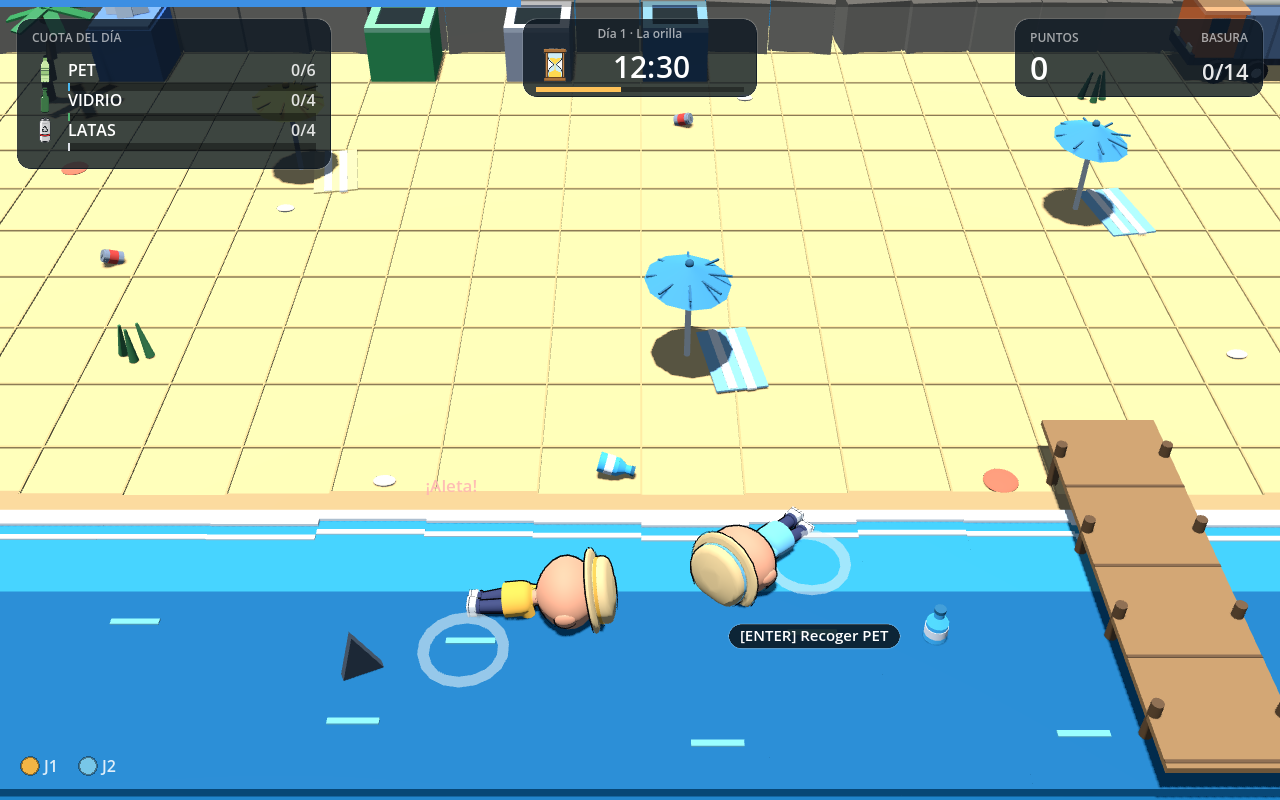
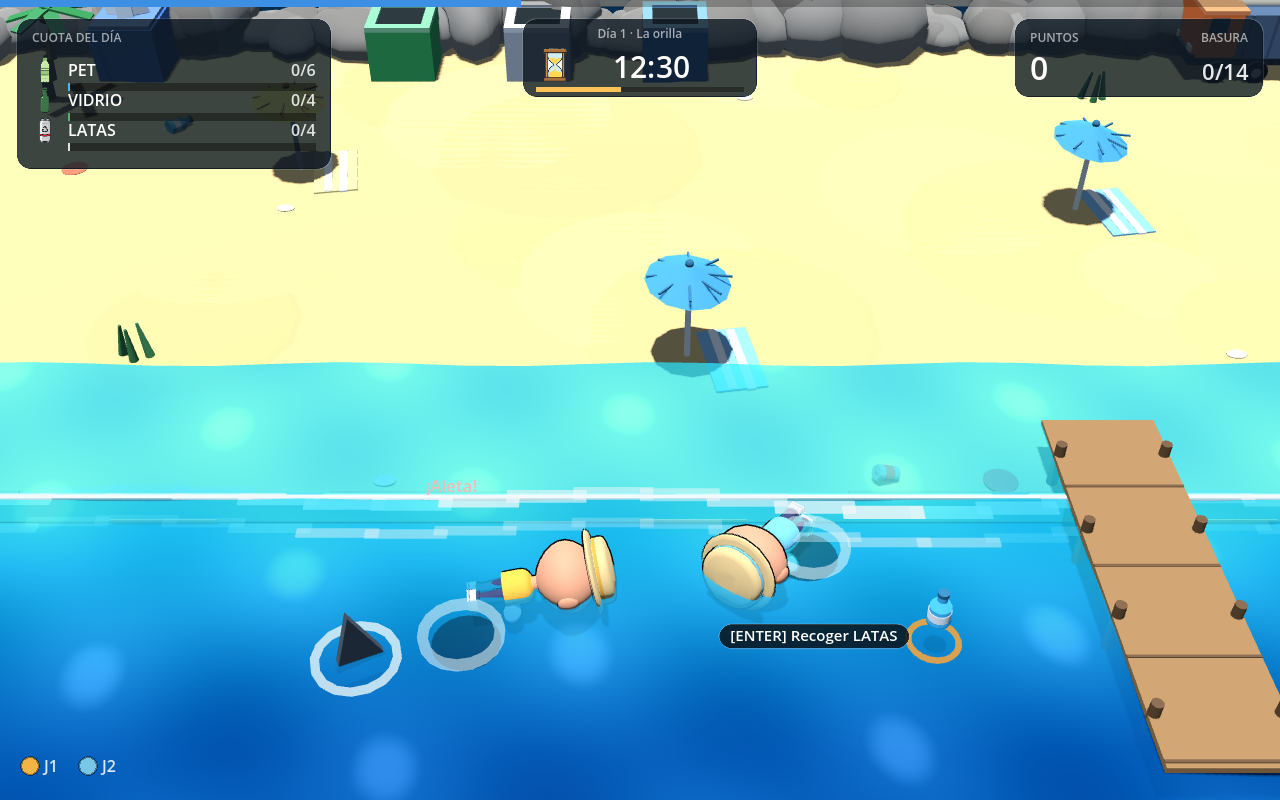
Playa conectada a la ciudad, mar animado y arena continua
Mundo:
- La playa ya no es una isla: detrás del paseo hay edificios con ventanas,
  faroles, baranda y el cartel «PLAYA LIMPIA». No es una ciudad entera,
  solo lo justo para dar fondo.
- El borde dejó de ser cubos grises: cada celda son cuatro piedras
  superpuestas, con tamaños y tonos distintos.
- Se sacó la cuadrícula de la arena (parecía un tablero de cubos). Ahora
  son manchas de duna: elipses planas de tonos apenas distintos.
- El mar es una sola lámina con shader: ondula con TIME, pasa de turquesa
  a azul según la profundidad, deja ver el fondo y tiene destellos. La
  espuma de la orilla son segmentos que avanzan y retroceden como la
  rompiente (antes eran dos rayas rectas).

Agua más profunda:
- Superficie a 0,30 (antes 0,10): el nadador queda hundido hasta el pecho
  en vez de flotar en un charco. Los ítems flotan a esa altura y el piso
  físico del agua subió con ella.

Nado:
- Brazada abierta a los costados y rolido del cuerpo con el compás del
  estilo libre; la estela y las salpicaduras quedan en la superficie.

96 comprobaciones headless siguen en verde.

diff --git a/docs/MECANICAS.md b/docs/MECANICAS.md
@@ -76,7 +76,19 @@ otro barre la arena, así que la presión puede ser mayor.
 
 ## El mapa
 
-La playa tiene puntos de referencia (todos con primitivas):
+La playa está **conectada a la ciudad**: detrás del paseo hay edificios bajos con
+ventanas, faroles, una baranda y el cartel «PLAYA LIMPIA». No es una ciudad
+entera, solo lo justo para que el lugar no se sienta una isla perdida.
+
+- **Arena continua**: no hay cuadrícula. La textura son manchas de duna (elipses
+  planas de tonos apenas distintos) y la orilla de arena mojada.
+- **Rocas naturales**: el borde son grupos de piedras superpuestas de distinto
+  tamaño y tono (antes era un cubo gris por celda).
+- **Mar animado**: una sola lámina con shader. Ondula con `TIME`, cambia de
+  turquesa a azul según la profundidad y deja ver el fondo (alfa). La espuma de
+  la orilla son segmentos que avanzan y retroceden como la rompiente.
+
+Puntos de referencia (todos con primitivas):
 
 - **Palmeras** en los rincones, con tronco inclinado y cocos: bloquean el paso.
 - **Sombrillas** con varillas y toalla rayada (dan sombra a la basura que cae).
@@ -116,8 +128,9 @@ palmera ni debajo del muelle.
 
 ## El mar y el tiburón (Fase 3)
 
-- **Se entra al agua nadando**: el personaje se acuesta sobre la lámina, deja
-  estela de espuma y salpica al avanzar. Nadar es **más lento** que caminar
+- **Se entra al agua nadando**: el personaje queda **hundido hasta el pecho**
+  (el agua está a 0,30 y el cuerpo a 0,21), se acuesta sobre la lámina, rola con
+  la brazada, deja estela de espuma y salpica al avanzar. Nadar es **más lento** que caminar
   (2,5 contra 4,6) y el impulso en el agua también es más corto (4,2 contra 9,2).
 - **A los 3 s** de estar en el agua aparece la **aleta** (un triángulo oscuro que
   rodea al jugador). **A los 6 s** muerde: −3, **suelta lo que lleva** (queda en

diff --git a/README.md b/README.md
@@ -75,7 +75,10 @@ para rescatarlo.
 
 La playa tiene **palmeras, sombrillas con toalla, la torre del guardavidas y un
 muelle** sobre el agua. Los props grandes bloquean el paso y reservan su celda:
-la basura no aparece dentro de ellos.
+la basura no aparece dentro de ellos. Detrás del paseo se ve la **ciudad**
+(edificios, faroles y el cartel de la playa): el lugar no es una isla perdida.
+La arena no tiene cuadrícula y el **mar es una lámina animada** con shader que
+ondula y cambia de color según la profundidad.
 
 ![mapa](docs/captura-mapa.png)
 
